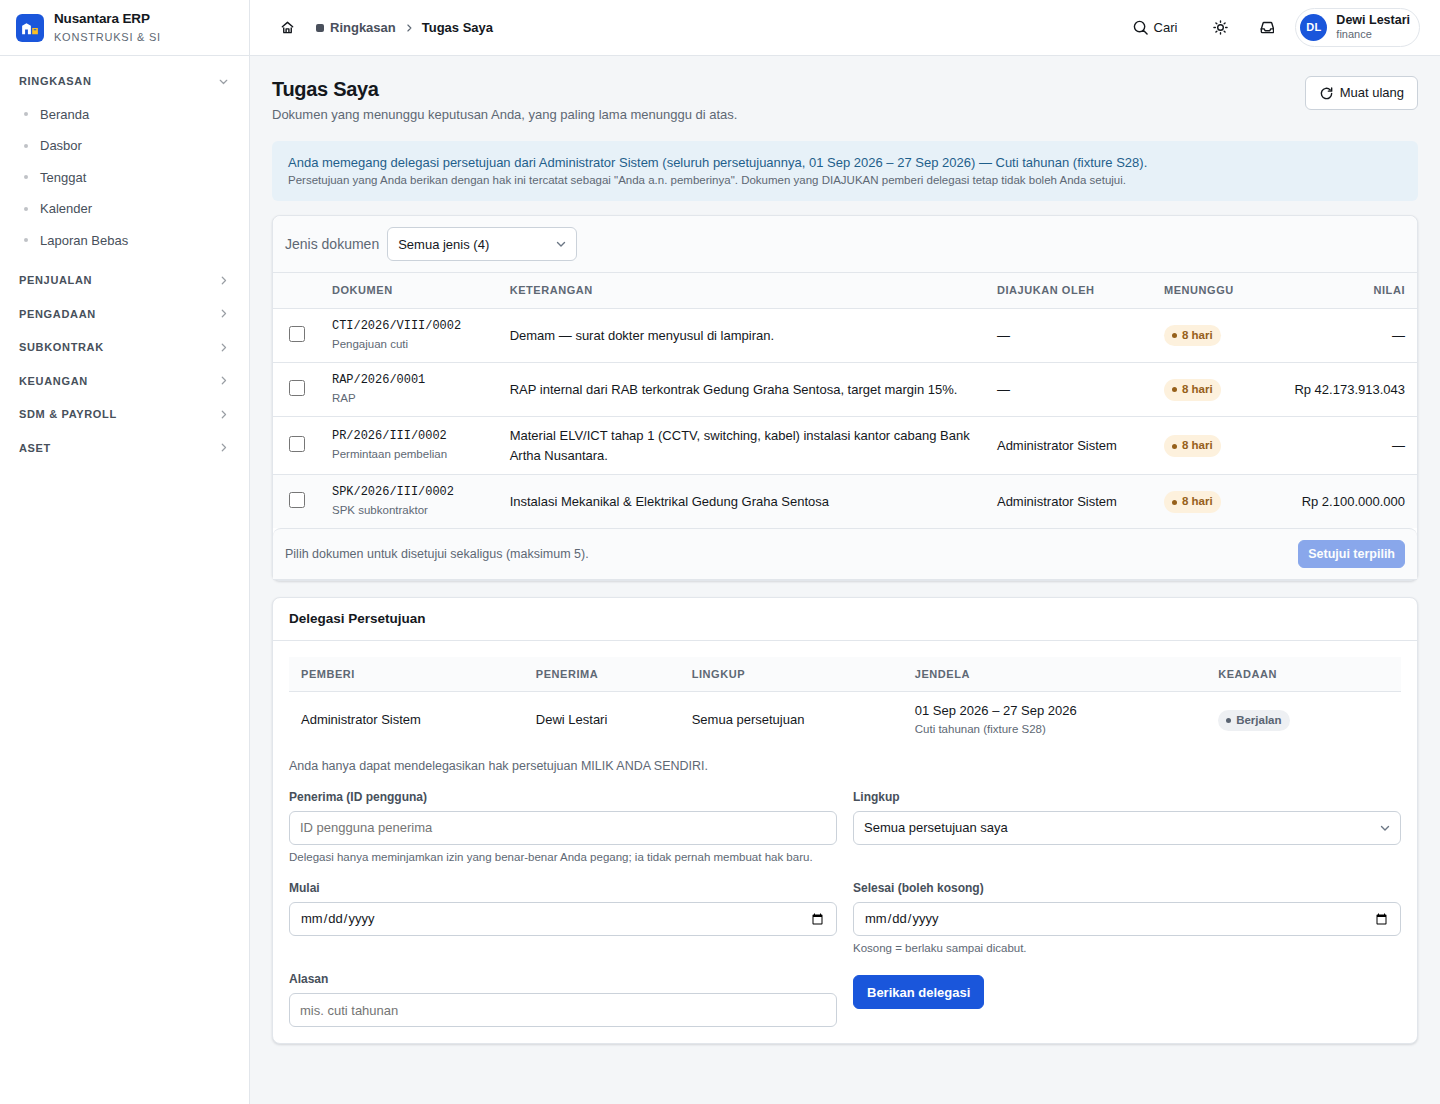
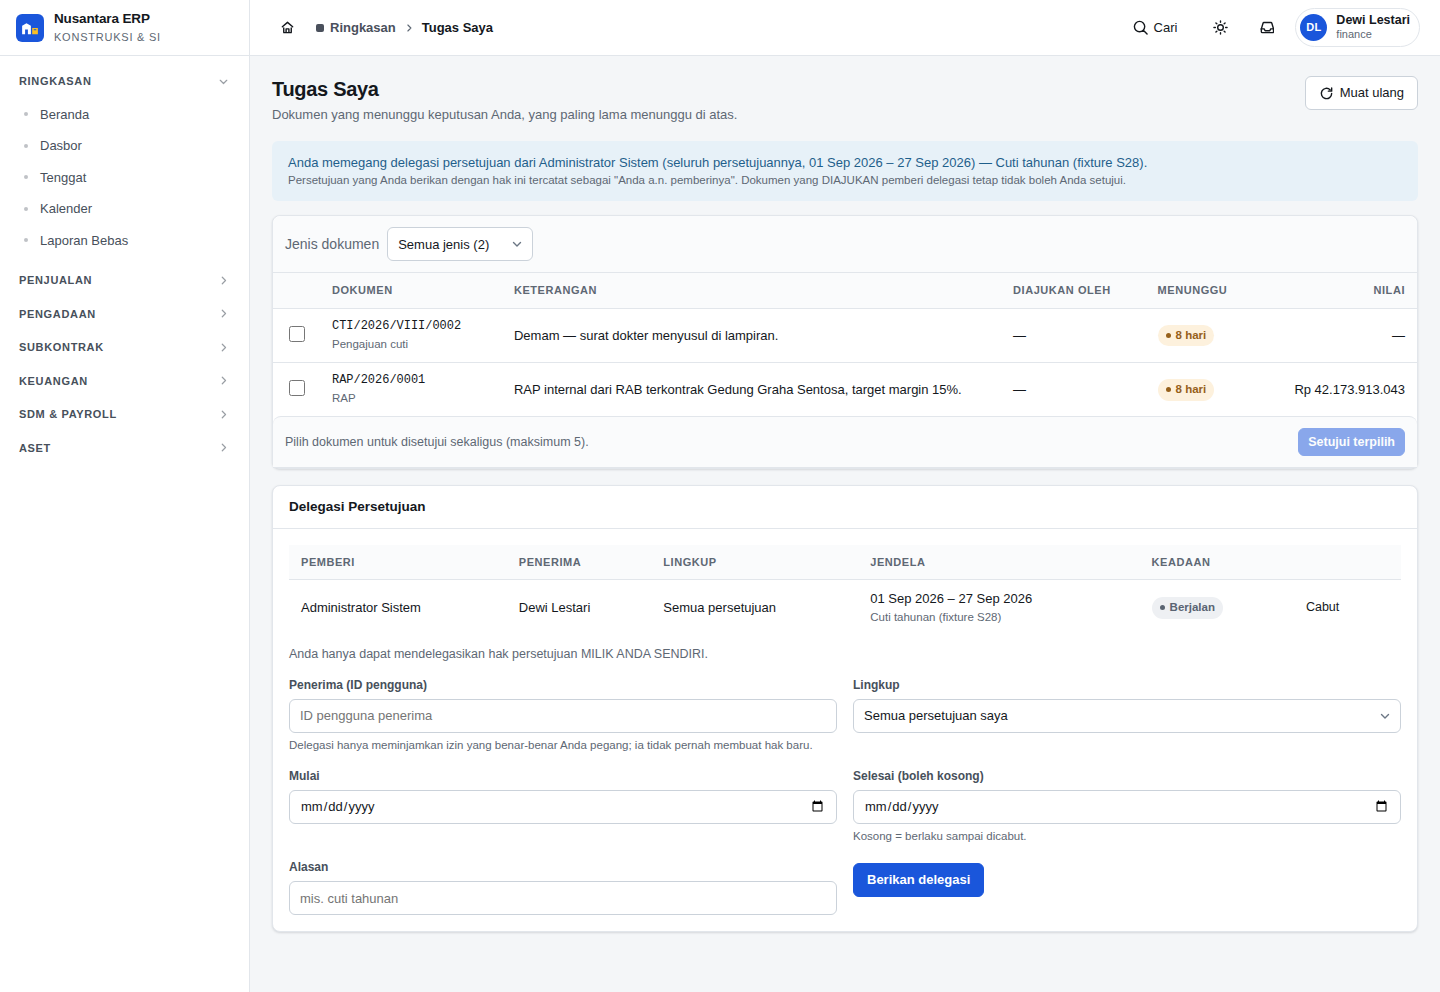
bukti: S28 dijalankan ulang di atas pohon yang diperbaiki — 31 syarat (dari 26), lima di antaranya menjaga perbaikan putaran ini (verifikasi F-1, 7 Sep 2026)
Skenario S28 dijalankan atas salinan dataset demo yang dimigrasi, php -S di
port 8105, dan hasilnya menggantikan blok S28 di results-phase-2.json —
delapan skenario era ROADMAP-DEVIASI (S1..S11) tetap utuh.

Lima syarat baru:
  a_threshold_cell_only_where_something_enforces_it   14 kotak ambang, bukan 15
  the_mode_cell_only_on_the_type_that_can_carry_it     1 sel mode, bukan 12
  the_delegates_queue_holds_nothing_the_giver_submitted
  every_row_the_queue_offered_was_picked
  not_one_offered_row_was_refused

Dua yang terakhir mengubah cara skenario memilih: SETIAP baris yang ditawarkan
dicentang, bukan dua yang pertama. Sebelum perbaikan f1-money-4, antrean
delegat memuat 4 baris yang 2 di antaranya dijamin menjawab 422, dan memilih
dua yang pertama — kebetulan dua yang berhasil — menghijaukan skenario ini di
atas antrean yang separuhnya tidak dapat disetujui. Sekarang antreannya 2
baris, keduanya dipilih, keduanya disetujui, toast tidak menyebut satu pun
kegagalan, dan kotak masuk turun ke nol.

Diukur ulang di sesi ini: SQLite 2.900/17.905 hijau (11 dilewati, 09:10),
MySQL 139/2.791 (Core persetujuan+setelan+Iam, 02:12) dan 63/285 (uang
Finance, 01:15), erp:permission-check 94 izin / 12 peran / nol penyimpangan.
/app/ dimuat di Chromium sesudah seluruh suntingan SPA — halaman masuk,
#/settings, #/tugas, #/dashboard — nol galat konsol, nol permintaan gagal.

diff --git a/docs/bukti-uji/harness-playwright.py b/docs/bukti-uji/harness-playwright.py
@@ -5955,6 +5955,13 @@ MATRIX_CARD = """() => {
     count_label: card.querySelector('.card-head span.muted').innerText,
     rows: rows.length,
     editable_cells: card.querySelectorAll('tbody input, tbody select').length,
+    // Putaran verifikasi F-1: sel MODE hanya boleh ada di baris yang
+    // persetujuannya boleh berhenti di tengah (keputusan pemenang). Pada
+    // sebelas baris lain ia memposting jurnal dua kali.
+    mode_cells: card.querySelectorAll('tbody select').length,
+    // Kolom kedua saja: kolom keempat (ambang tingkat ketiga) juga sebuah
+    // input, dan menghitung keduanya bersama menjawab pertanyaan lain.
+    threshold_cells: rows.filter(r => r.children[1] && r.children[1].querySelector('input')).length,
     headers: [...card.querySelectorAll('thead th')].map(th => th.innerText),
     po: cells(/Pesanan pembelian/),
     spk: cells(/SPK subkontraktor/),
@@ -6081,9 +6088,22 @@ def s28(pg):
     #     berarti menebak.
     finance_token = token_for("finance@nusantara.test")
     status, trail_source = api("core/inbox", finance_token)
+    # Putaran verifikasi F-1: antrean seorang delegat tidak boleh memuat
+    # pengajuan pemberinya — F-1 yang dikirim menawarkan 2 dari 4 baris yang
+    # dijamin menjawab 422, lengkap dengan kotak centang.
+    out["delegate_queue_submitters"] = sorted({
+        (r.get("submitted_by") or "—") for r in (trail_source.get("data") or [])})
+    out["delegate_queue_submitter_ids"] = sorted({
+        r.get("submitted_by_id") for r in (trail_source.get("data") or [])}, key=lambda v: (v is None, v))
+    # SETIAP baris yang ditawarkan dipilih, bukan dua yang pertama. Sebelum
+    # putaran verifikasi F-1 antrean seorang delegat memuat baris yang dijamin
+    # menjawab 422 (pengajuan pemberinya), dan memilih dua yang pertama —
+    # kebetulan dua yang berhasil — menghijaukan skenario ini di atas antrean
+    # yang separuhnya tidak dapat disetujui. Memilih semuanya berarti sebuah
+    # baris yang tidak dapat disetujui MEMBUAT skenario ini merah.
     boxes = pg.query_selector_all("table.data tbody input[type=checkbox]:not([disabled])")
     picked = []
-    for box in boxes[:2]:
+    for box in boxes[:5]:
         row = box.evaluate_handle("b => b.closest('tr')")
         # Kode dokumennya, bukan baris innerText-nya: sejak kolom kotak
         # centang ada, baris innerText dimulai dengan sel kosong.
@@ -6139,6 +6159,10 @@ def s28(pg):
         "thirteen_rows_have_no_amount": m.get("dash_rows") == 13,
         # Syarat terpenting paket ini: tidak ada satu pun Rp 0 karangan.
         "no_row_ships_a_fabricated_zero": m.get("zero_rows") == [],
+        # 14 ambang = 28 - 13 tanpa nilai rupiah - 1 yang mengikuti SPK.
+        "a_threshold_cell_only_where_something_enforces_it": m.get("threshold_cells") == 14,
+        # dan SATU sel mode, pada satu-satunya jenis yang dapat membawanya.
+        "the_mode_cell_only_on_the_type_that_can_carry_it": m.get("mode_cells") == 1,
         "core_update_alone_is_refused": out["edit_without_director"]["status"] == 422,
         "the_refusal_names_the_permission_needed": "approve-director" in out["edit_without_director"]["message"],
         "a_director_with_core_update_may_edit": out["edit_with_both"]["status"] == 200,
@@ -6155,10 +6179,18 @@ def s28(pg):
             out["bulk_on"]["bulk_button"] is True and out["bulk_on"]["checkboxes"] > 0),
         "the_cap_is_printed_not_implied": "maksimum 5" in (out["bulk_on"]["bulk_text"] or ""),
         "two_documents_were_actually_picked": len(picked) == 2,
+        "every_row_the_queue_offered_was_picked": len(picked) == out["bulk_on"]["checkboxes"],
+        "the_delegates_queue_holds_nothing_the_giver_submitted": (
+            "Administrator Sistem" not in out["delegate_queue_submitters"]
+            and 1 not in out["delegate_queue_submitter_ids"]),
     }
     if picked:
         checks["bulk_approve_names_every_document_it_touched"] = all(
             any(code in t for t in (out.get("bulk_toasts") or [])) for code in picked)
+        # Dan tidak satu pun yang ditawarkan ditolak: itulah kalimat yang
+        # dijaga saringan antrean, diucapkan oleh peramban.
+        checks["not_one_offered_row_was_refused"] = not any(
+            "tidak disetujui" in t.lower() for t in (out.get("bulk_toasts") or []))
         checks["approved_rows_leave_the_queue"] = (
             out["after_bulk"]["rows"] == out["bulk_on"]["rows"] - len(picked))
         checks["the_trail_reads_budi_a_n_sari"] = (

diff --git a/docs/LAPORAN-PAKET-HM-F-1.md b/docs/LAPORAN-PAKET-HM-F-1.md
@@ -96,14 +96,33 @@ Ini keputusan yang terbuka, dan dicatat di § Untuk pemilik.
 | Pertanyaan | Yang dikirim | Dapat diubah pemilik |
 |---|---|---|
 | Siapa boleh membuat delegasi? | pemiliknya sendiri, atau pemegang `iam.update` | lewat peran |
-| Apa yang dipinjamkan? | **hanya** `<awalan>.approve` dan `<awalan>.approve-director` | tidak — dipaku uji |
+| Apa yang dipinjamkan? | **hanya** `<awalan>.approve` dan `<awalan>.approve-director`, dan **hanya di tombol Setujui/Tolak sebuah dokumen** | tidak — dipaku uji |
 | Lingkupnya? | seluruh hak approve pemberinya, atau satu awalan modul | per baris delegasi |
 | Jendelanya? | tanggal mulai wajib, tanggal selesai boleh kosong (= sampai dicabut) | per baris |
 | Berantai? | tidak — pemberinya harus memegang izinnya sendiri | tidak |
-| Delegat menyetujui pengajuan pemberinya? | **tidak pernah** | ikut saklar maker-checker |
+| Delegat menyetujui pengajuan pemberinya? | **tidak dengan hak pemberi itu**; kalau ia memegang haknya sendiri, delegasinya tidak menghalanginya | ikut saklar maker-checker |
 | Terlihat sebelum dipakai? | spanduk di Tugas Saya menyebut pemberi, lingkup, jendela, alasan | tidak |
-| Terlihat sesudah dipakai? | jejak berbunyi "Budi a.n. Sari", selamanya | tidak |
+| Terlihat sesudah dipakai? | jejak DAN pemberitahuan pengaju berbunyi "Budi a.n. Sari", selamanya | tidak |
 | Dicabut = dihapus? | **tidak** — barisnya menjelaskan setiap "a.n." yang ditinggalkannya | tidak |
+| Siapa boleh mencabut? | pemberinya, **penerimanya**, atau pemegang `iam.update`; `revoked_by` mencatat siapa | tidak |
+| Tercatat di Log Audit? | ya — dibuat dan dicabut, berjudul "Sari → Budi (est)" | tidak |
+
+**Empat baris di tabel ini berubah pada putaran verifikasi** (7 Sep 2026), dan keempatnya karena yang
+dikirim tidak sesuai dengan yang dijanjikannya:
+
+- *Apa yang dipinjamkan* — izin `<awalan>.approve` sendiri menggerbangi **15 rute yang bukan
+  keputusan atas dokumen**: memposting jurnal manual, membuka kembali periode fiskal, menerbitkan
+  nomor e-Bupot, `advance-payout` dan `retention-release` SPK, menutup proyek, verify/waive/reopen
+  defect, close/reopen insiden K3, mengaktifkan kontrak, dua keputusan submittal, verifikasi NCR.
+  Diukur ujung ke ujung: 403 menjadi 200 pada reopen periode fiskal sesudah sebuah delegasi cuti
+  biasa. Sekarang delegasi hanya dihormati pada rute `/{id}/approve` dan `/{id}/reject`.
+- *Delegat menyetujui pengajuan pemberinya* — "tidak pernah" berarti sebuah delegasi **mencabut hak
+  orang yang menerimanya**: pemakaian paling biasa (pengaju menyerahkan haknya kepada penyetujunya
+  sebelum cuti) membuat 2 dari 4 baris antrean penyetuju itu tidak dapat disetujui, dan siapa pun
+  boleh membuat baris yang melumpuhkan seorang direktur. Penolakannya kini hanya berlaku bila
+  haknya memang dipinjam.
+- *Siapa boleh mencabut* — penerimanya ditambahkan; sebuah delegasi datang tanpa diminta.
+- *Tercatat di Log Audit* — barisnya sebelumnya tidak diaudit sama sekali.
 
 ## Delapan, bukan sembilan
 
@@ -354,14 +373,29 @@ dilaporkan di § Gerbang di bawah berasal dari putaran yang dijalankan **sesudah
 apa yang bisa Anda ubah, dan apa yang Anda ubah kalau Anda menyentuhnya.
 
 1. **Tabel 28 baris di atas adalah jawaban OQ-4 apa adanya.** Tiga jenis punya aturan bernilai; 11
-   lagi bisa diberi; 13 tidak punya nilai untuk diukur.
+   lagi bisa diberi; 13 tidak punya nilai untuk diukur. Yang ditawarkan pada 14 baris berambang
+   adalah **ambangnya saja** — kolom "cara ambang berlaku" hanya ada pada Keputusan pemenang
+   (lihat butir 4).
 2. **Ambang PO Rp 100 juta dan SPK Rp 200 juta tidak berubah** — sel itu sekarang bisa Anda edit dari
    layar, dan kunci yang ditulisnya adalah kunci yang sama yang sudah dibaca gerbangnya.
 3. **Keputusan pemenang tetap berjenjang** Rp 100 juta (2 penyetuju) / Rp 1 miliar (3), sekarang
    terbaca di layar dalam kosakata yang sama dengan baris lain.
-4. **Mode `extra_level` tersedia untuk 12 jenis** yang punya nilai dan tidak bergerbang sendiri.
-   Menyalakannya pada, misalnya, Pembayaran keluar berarti pembayaran di atas ambang menuntut
-   **dua orang berbeda**, yang kedua pemegang `fin.approve-director`.
+4. **~~Mode `extra_level` tersedia untuk 12 jenis~~ — DICABUT pada putaran verifikasi, dan kalimat
+   di atas menjual cacat uang.** Mode itu membuat persetujuan PERTAMA meninggalkan dokumen pada
+   status `submitted`, dan hanya keputusan pemenang yang pengendalinya membaca status itu. Terukur
+   7 Sep 2026: menyalakannya pada Invoice termin memposting jurnal
+   piutang/pendapatan/PPN keluaran Rp 2,22 miliar pada dokumen yang **belum disetujui**, lalu
+   memposting jurnal **kedua** saat penyetuju berikutnya datang (JV/2026/09/0001 dan
+   JV/2026/09/0002, keduanya posted). Bentuk yang sama pada Tagihan vendor Rp 111 juta. Selnya
+   sekarang hanya muncul pada satu baris — Keputusan pemenang — dan resolvernya memaksa
+   `single_director` di mana pun mode itu sempat tertulis.
+
+   Contoh yang dipakai kalimat lama itu juga salah untuk sebab kedua: **Pembayaran keluar** tidak
+   memakai trait `Approvable`, jadi ambang direkturnya dicap `director: true` dan tidak ditegakkan
+   satu baris kode pun (terukur: pembayaran Rp 111.000.000 disetujui oleh orang tanpa
+   `fin.approve-director`). Sejak putaran ini `PaymentService::approve` menegakkannya, dan sel
+   ambangnya sah — tetapi yang dituntut adalah **satu** penyetuju pemegang `fin.approve-director`,
+   bukan dua orang berbeda.
 5. **Setujui massal mati.** Isi angkanya hanya bila Anda memang menginginkan satu klik untuk banyak
    dokumen. Pertimbangkan bahwa setiap dokumen tetap satu permintaan dan laju API 120/menit.
 6. **Delegasi kosong.** Fiturnya ada; tidak ada satu baris pun sampai seseorang membuatnya.
@@ -395,6 +429,31 @@ angka di bawah bukan angka itu (§ Tinjauan sendiri, catatan proses).
 | MySQL 8 | berkas F-1 + seluruh registri Pengaturan + Iam | 202 | 3.248 | 0 | 02:08.051 | ✅ hijau |
 | Peramban | S28 desktop 1440×900 + S28m ponsel 390×844 | 2 skenario | 26 syarat | — | 21.7 s + 5.4 s | ✅ hijau |
 
+**Dijalankan ulang sesudah putaran verifikasi (7 Sep 2026)** — angka di bawah adalah angka yang
+berlaku untuk pohon yang di-merge, dan semuanya diukur di sesi itu:
+
+| Leg | Cakupan | Uji | Asersi | Dilewati | Waktu | Hasil |
+|---|---|---:|---:|---:|---:|---|
+| SQLite | Core, Finance, Estimation, Procurement, Subcontract, Iam, Projects (Feature + Unit) | 2.900 | 17.905 | 11 | 09:10.020 | ✅ hijau |
+| MySQL 8 | 17 berkas persetujuan/setelan Core + Iam | 139 | 2.791 | 0 | 02:12.201 | ✅ hijau |
+| MySQL 8 | 5 berkas uang Finance (jurnal AR/AP, persetujuan pembayaran) | 63 | 285 | 0 | 01:14.985 | ✅ hijau |
+| Peramban | S28 desktop + S28m ponsel, di atas salinan dataset demo yang dimigrasi | 2 skenario | **31** syarat | — | 21.8 s + 5.6 s | ✅ hijau |
+
+Lima syarat harness BARU (26 → 31), semuanya menjaga perbaikan putaran ini:
+`a_threshold_cell_only_where_something_enforces_it` (14 kotak ambang, bukan 15),
+`the_mode_cell_only_on_the_type_that_can_carry_it` (1 sel mode, bukan 12),
+`the_delegates_queue_holds_nothing_the_giver_submitted`,
+`every_row_the_queue_offered_was_picked`, `not_one_offered_row_was_refused`. Yang terakhir dua
+mengubah cara skenario memilih: SETIAP baris yang ditawarkan dicentang, bukan dua yang pertama —
+sebuah baris yang tidak dapat disetujui sekarang MEMBUAT skenario ini merah alih-alih terlewat.
+
+`/app/` dimuat di Chromium sesudah seluruh suntingan SPA (`settings.js`, `tugas.js`, `board.js`,
+`app.css`): halaman masuk, lalu `#/settings` (12 kartu), `#/tugas` (2 kartu) dan `#/dashboard`
+(8 kartu) — **nol galat konsol, nol permintaan gagal**.
+
+`erp:permission-check` pada salinan demo yang dimigrasi, dijalankan ulang: **94 izin, 12 peran,
+nol penyimpangan**.
+
 Leg MySQL sengaja tidak menjalankan seluruh direktori: yang perlu dilihat di sana adalah kolom
 `json` `core_approvals.policy` (SQLite menyimpannya sebagai TEXT dan cast `array` menyembunyikan
 bedanya) dan `whereDate` pada jendela delegasi — keduanya ada di berkas F-1, dan seluruh registri
@@ -424,3 +483,35 @@ dilaporkan `pint --test` dan sudah begitu sebelum paket ini; tidak satu pun dise
 | 10 | `b9caf4c` | bukti UI diambil ulang di atas pohon yang diam |
 | 11 | `0e4008e` | stempel menjawab tiap pertanyaan sekali |
 | 12 | `4636d47` | tinjauan sendiri 3 — PO/SPK tergambar dua kali di Pengaturan |
+
+## Putaran verifikasi (7 Sep 2026) — sebelas temuan, sebelas commit
+
+Paket ini keluar dari agen pembangun tanpa verifikasi adversarial (butir #1 di
+§ Yang TIDAK diverifikasi). Verifikasi itu dijalankan sesudahnya, dua lensa —
+uang dan izin — dan menemukan **sebelas** hal. Tiga di antaranya cacat uang yang
+berdiri sendiri, dan dua dari ketiganya adalah kendali yang layar tawarkan dan
+tidak ada yang tegakkan.
+
+| # | Berat | Apa | Perbaikannya |
+|---|---|---|---|
+| f1-money-1 | merusak | Mode `extra_level` ditawarkan pada 12 baris; hanya keputusan pemenang yang pengendalinya membaca status sesudah Setujui. Terukur: Invoice termin Rp 2,22 miliar memposting jurnal pada dokumen `submitted`, lalu memposting jurnal **kedua** | Sel modenya hanya muncul pada baris yang menyatakan `approvalLadderKey()`; resolvernya memaksa `single_director` di mana pun mode itu terlanjur tertulis; `Approvable` menolak stempel bertingkat pada jenis yang tidak mendukungnya |
+| f1-money-2 | merusak | Ambang direktur pada Pembayaran keluar dicap `director: true` dan ditegakkan **nol** baris kode — `Payment` tidak memakai trait `Approvable`. Terukur pada Rp 111.000.000 | Pemeriksanya pindah ke `ApprovalPolicy::assertStampedDirector`; `PaymentService::approve` memanggilnya. Dan `enforcesStampedDirector` + satu uji memastikan setiap baris berkotak-isian punya penegak |
+| f1-money-3 | tidak lengkap | Satu izin `*.approve-director` mana pun membuka **semua** baris matriks: pemegang `hr.approve-director` menaikkan ambang PO 100× lewat HTTP 200 | `directorPermissionForKey` menuntut izin barisnya sendiri; tiga kunci lintas-baris tetap "salah satu"; validator menolak per baris |
+| f1-money-4 / f1-perm-03 | tidak lengkap | Antrean delegat memuat pengajuan pemberinya — pekerjaan yang F-1 sendiri jamin akan ditolak — dan setujui massal mencentangnya. Terukur pada dataset demo: 2 dari 4 baris | `ApprovalQueue` memakai predikat yang MENOLAK, bukan salinannya; kolom `policy` ikut di SELECT yang sudah ada, jadi nol kueri tambahan per baris |
+| f1-money-5 | kosmetik | `tone: 'error'` tidak dikenal stylesheet: toast kegagalan berwarna netral, `rgb(94,104,116)` | `tone: 'err'`; pemindai nada menemukan **empat** kejadian lain yang sudah ada sebelum F-1 dan `.toast.warn` didefinisikan untuk keempatnya |
+| f1-perm-01 | merusak | Delegasi meminjamkan `<awalan>.approve`, dan izin itu menggerbangi **15 rute** yang bukan keputusan dokumen — posting jurnal manual, reopen periode fiskal, advance payout, retention release. Terukur 403 → 200 | Delegasi hanya dihormati pada rute `/{id}/approve` dan `/{id}/reject`; rute ke-16 tertutup secara bawaan. Tiga docblock dan PANDUAN-ADMINISTRATOR diperbaiki dengan daftar terukurnya |
+| f1-perm-02 | merusak | Sebuah delegasi **mencabut** hak penerimanya atas pengajuan pemberinya, bahkan bila ia memegang hak itu sendiri; siapa pun boleh membuat baris seperti itu, dan yang dicabut tidak bisa mengembalikannya | Penolakannya menuntut ketiga syaratnya sekaligus (pemberi tercakup lingkup, pemberi benar-benar memegang haknya, penyetuju TIDAK memegangnya sendiri); penerima boleh mencabut |
+| f1-perm-04 | tidak lengkap | "a.n." sampai ke jejak dan layar detail, tetapi **tidak** ke pemberitahuan yang dibaca pengaju | Isi pemberitahuan keputusan dibaca dari `on_behalf_of_user_id` pada baris yang baru ditulis |
+| f1-perm-05 | tidak lengkap | Memberi dan mencabut hak menyetujui adalah satu-satunya perubahan izin yang paket ini tidak audit; pencabutan tidak mencatat aktor sama sekali | `ApprovalDelegation` masuk `AuditedModels`; kolom `revoked_by` ditambahkan ke migrasi 000199 sendiri (tabelnya belum pernah hidup di mana pun, jadi blok Core yang penuh tidak perlu diperlebar) |
+| f1-perm-06 | kosmetik | Kalimat "nol kueri untuk yang tidak punya delegasi" tidak pernah diukur, dan salah | Diukur, tabelnya ada di butir #6 § Yang TIDAK diverifikasi, dan `ApprovalDelegationCostTest` menjaganya |
+
+**Butir #7 § Yang TIDAK diverifikasi ("penolakan setujui massal di tengah antrean, belum diuji lewat
+peramban") tertutup dari sisi lain**: sesudah f1-money-4, antrean tidak lagi berisi baris yang dijamin
+ditolak, jadi keadaan yang dulu tidak teruji itu tidak lagi dibuat oleh aplikasi ini sendiri.
+Penolakan yang tersisa (mis. ambang direktur) tetap ditangani loop klien, yang melanjutkan dan
+menamai tiap kegagalan.
+
+**Satu bawaan berubah bagi pemilik**, dan hanya satu: kolom "cara ambang berlaku" yang dulu dapat
+diisi pada 12 baris sekarang hanya ada pada Keputusan pemenang. Tidak ada instalasi yang kehilangan
+sebuah keputusan karenanya — mode itu dikirim `single_director` pada kedua belas baris, dan tidak
+ada satu pun yang dapat menegakkannya kalau diubah.
